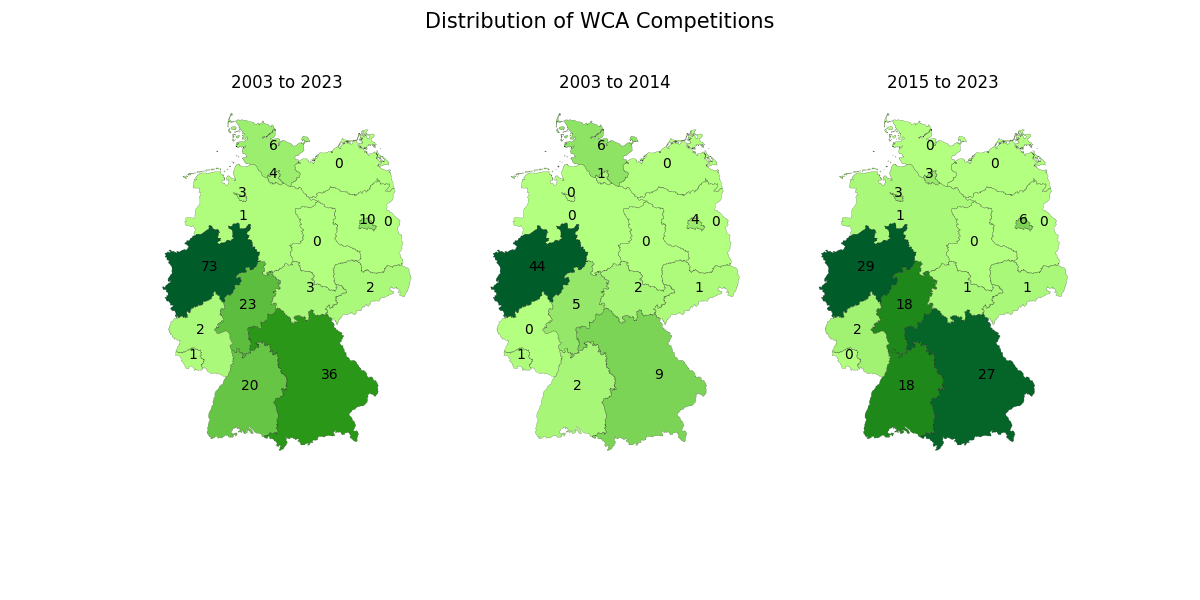
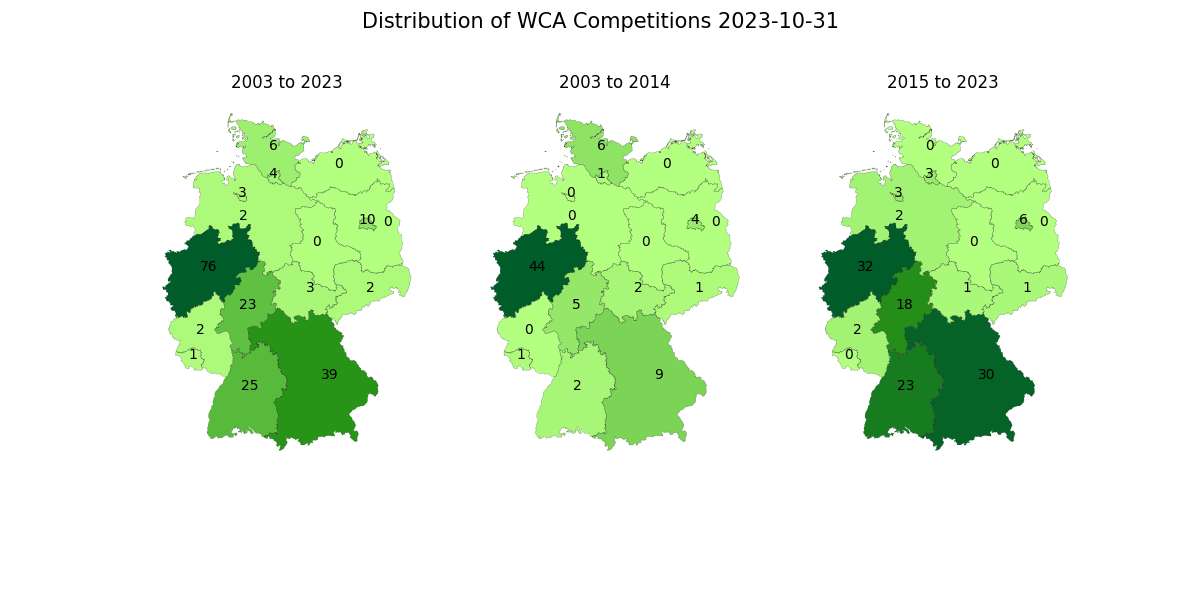
updated 2023-10-31

Changed region(s): [[0.3083, 0.0, 0.7092, 0.06], [0.74, 0.63, 0.7708, 0.66]]

diff --git a/compdistribution.py b/compdistribution.py
@@ -8,6 +8,7 @@ import geopandas as gpd
 
 from geopy.geocoders import Nominatim 
 from functools import partial
+from datetime import datetime
 
 
 # figure specs
@@ -108,7 +109,7 @@ def plot_stuff(title, legend, dfr, plt, ax, idx):
                                          (0.5, '#299617'),
                                          (1,    '#005C29')], N=256)
     fig.subplots_adjust(top=0.95)
-    fig.suptitle('Distribution of WCA Competitions',fontsize = 15)
+    fig.suptitle('Distribution of WCA Competitions ' + datetime.today().strftime('%Y-%m-%d'),fontsize = 15)
     dfr.plot(column = 0,cmap = karte,ax=ax[idx], legend=False)
     dfr.geometry.boundary.plot(color=None,edgecolor='k',linewidth = 0.1,ax=ax[idx]) 
     ax[idx].set_title(title)
